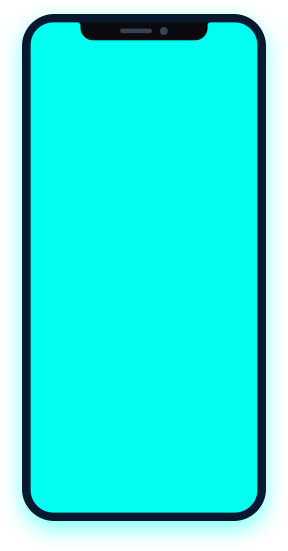
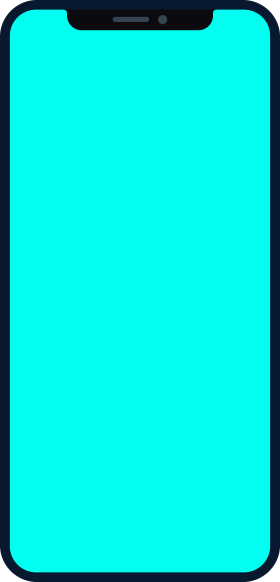
Implemented layout of services

diff --git a/index.html b/index.html
@@ -12,16 +12,44 @@
   <title>Appo</title>
 </head>
 <body>
-  <section class="app-add">
+  <section class="services">
+    <div class="container">
+      <h2>Everything needed to power<br/>your app brend online</h2>
+      <div class="services__container d-flex justify-content-between">
+          <div class="services__card d-flex flex-column align-items-center justify-content-around">
+            <img src="./src/img/modern.png" alt="Modern">
+            <h5>Modern Flat Design</h5>
+            <p>Cras ultricies ligula sed magna dictum porta. Nulla porttitor accumsan tincidunt. Vestibulum ac diamdo.</p>
+          </div>
+          <div class="services__card d-flex flex-column align-items-center justify-content-around">
+            <img src="./src/img/store.png" alt="Store">
+            <h5>First 7 Days Free</h5>
+            <p>Cras ultricies ligula sed magna dictum porta. Nulla porttitor accumsan tincidunt. Vestibulum ac diamdo.</p>
+          </div>
+          <div class="services__card d-flex flex-column align-items-center justify-content-around">
+            <img src="./src/img/support.png" alt="Support">
+            <h5>Fully Support</h5>
+            <p>Cras ultricies ligula sed magna dictum porta. Nulla porttitor accumsan tincidunt. Vestibulum ac diamdo.</p>
+          </div>
+          <div class="services__card d-flex flex-column align-items-center justify-content-around">
+            <img src="./src/img/phone.png" alt="Phone">
+            <h5>User Friendly</h5>
+            <p>Cras ultricies ligula sed magna dictum porta. Nulla porttitor accumsan tincidunt. Vestibulum ac diamdo.</p>
+          </div>
+      </div>
+    </div>
+  </section>
+
+  <section class="app-ad">
     <div class="container">
       <div class="row align-items-center">
-        <div class="app-add__phones col">
-          <div class="app-add__phone"><img src="./src/img/smartphone.png" alt="Smartphone" class="app-add__phone"></div>
+        <div class="app-ad__phones col">
+          <div class="app-ad__phone"><img src="./src/img/smartphone.png" alt="Smartphone" class="app-ad__phone"></div>
         </div>
-        <div class="app-add__info col">
+        <div class="app-ad__info col">
           <h2>Now Available</h2>
           <p>Cras ultricies ligula sed magna dictum porta. Nulla porttitor accumsan tincidunt. Vestibulum ac diam sit amet quam vehicula elementum sed sit amet dui. quam vehicula elementum sed sit ametsuada.</p>
-          <div class="app-add__info-buttons d-flex align-items-center">
+          <div class="app-ad__info-buttons d-flex align-items-center">
             <a href="#">
               <img src="./src/img/google-play-badge.svg" alt="Google play">
             </a>

diff --git a/src/css/main.css b/src/css/main.css
@@ -95,52 +95,95 @@ h5 {
   transform: translate(3px, -3px);
 }
 
+/*           SERVICES           */
+.services {
+  padding-bottom: 122px;
+}
+
+.services h2 {
+  position: relative;
+  text-align: center;
+  line-height: 40px;
+  margin-bottom: 74px;
+}
+
+.services h2::after {
+  content: '';
+  display: block;
+  height: 4px;
+  width: 100px;
+  background: var(--color-aqua);
+  margin: 82px auto 0;
+}
+
+.services .services__card {
+  width: 270px;
+  min-height: 321px;
+  box-shadow: 0 0 7px rgba(230, 230, 230, 0.651);
+  border-radius: 5px;
+  padding: 24px;
+}
+
+.services .services__card img {
+  width: 117px;
+  height: 106px;
+}
+
+.services .services__card p {
+  max-width: 230px;
+  text-align: center;
+}
+
 /*           APP ADD            */
-.app-add {
+.app-ad {
   position: relative;
   padding: 96px 0;
   background: var(--secondary-bg-color);
 }
 
-.app-add .app-add__phones .app-add__phone img {
-  height: 551px;
-  width: 288px;
+.app-ad .app-ad__phones .app-ad__phone img {
+  height: 508px;
+  width: 244px;
+  border-radius: 30px;
+  box-shadow: 0 0 20px #00fff2be;
 }
 
-.app-add .app-add__phones .app-add__phone {
+.app-ad .app-ad__phones .app-ad__phone {
   position: relative;
   z-index: 1;
 }
 
-.app-add .app-add__phones .app-add__phone::after {
+.app-ad .app-ad__phones .app-ad__phone::after {
   content: url('../img/smartphone.png');
   position: absolute;
-  top: 50%;
-  left: 50%;
-  transform: translate(-46%, -46%) scale(0.8);
+  top: 275px;
+  left: 285px;
+  transform: translate(-50%, -50%) scale(0.7);
+  border-radius: 30px;
+  box-shadow: 0 0 20px #00fff2be;
 }
 
-.app-add .app-add__info h2 {
+.app-ad .app-ad__info h2 {
   font-size: 40px;
   margin-bottom: 30px;
 }
 
-.app-add .app-add__info p {
+.app-ad .app-ad__info p {
   font-size: 17px;
   font-weight: 300;
   max-width: 455px;
   margin-bottom: 33px;
 }
 
-.app-add .app-add__info img {
+.app-ad .app-ad__info img {
   width: 145px;
 }
 
-.app-add .app-add__info a:last-of-type {
+.app-ad .app-ad__info a:last-of-type {
   margin-left: 27px;
 }
 
-.app-add .btn-main {
+.app-ad .btn-main {
   position: absolute;
   left: 50%;
   bottom: 0;
